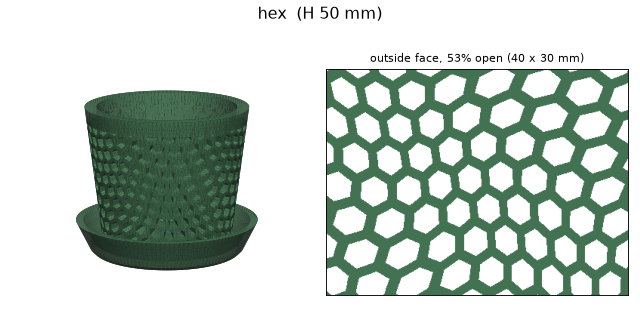
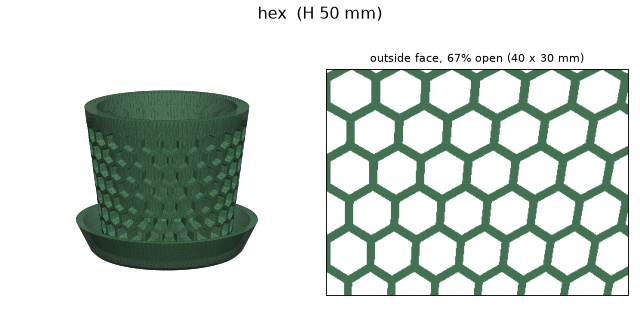
Make hex a regular honeycomb with larger cells
warp, warp_z and strut_extra default to 0 (the warp code stays, as
settings), and cells 84 -> 66: ~6.1 mm cells, ~5 mm outer holes, the
longest the 30-degree roofs should bridge. On the 100 mm pot: outside
67% open, ~4.7 mm holes; soil side 42%, ~3.8 mm.

The slow build test allows hex 15% overhang: its pointy roofs are
30-degree slopes (~13% on the 40 mm test pot).

Claude-Session: https://claude.ai/code/session_014ZpbXoCPdeiaMbjvSWb3pv

Changed region(s): [[0.5, 0.2083, 1.0, 0.8929], [0.125, 0.3869, 0.4062, 0.7143], [0.6875, 0.1488, 0.7188, 0.1786]]

diff --git a/src/pots/patterns.py b/src/pots/patterns.py
@@ -343,11 +343,12 @@ def hex_cutters(pot, c, depths, per_edge=2):
 
 
 def pat_hex(pot, P, th, Z, r, s):
-    """Warped honeycomb, vertex pointing up, with the voronoi funnel: struts
-    thin from strut_in to strut_out through the wall. The roof edges have a
-    vertical normal component of sqrt(3)/2, so the pattern moves down by
+    """Honeycomb (regular by default; `warp` / `warp_z` make it wavy), vertex
+    pointing up, with the voronoi funnel: struts thin from strut_in to
+    strut_out through the wall. The roof edges have a vertical normal
+    component of sqrt(3)/2, so the pattern moves down by
     recession / (sqrt(3)/2) to keep every roof where it is. strut_extra
-    makes up for the warp, which shears the cells and thins some struts."""
+    makes up for a warp, which shears the cells and thins some struts."""
     c = P.hex
     strut = taper(c, s) + c.strut_extra
     shift = taper_shift(c, s, np.sqrt(3) / 2, c.strut_extra)
@@ -646,7 +647,7 @@ def pat_weave(pot, P, th, Z, r, s):
 PATTERNS = {
     "voronoi": Pattern("2d", pat_voronoi, "organic cells flaring outward like funnels (default)",
                        cutters=voronoi_cutters),
-    "hex": Pattern("2d", pat_hex, "warped honeycomb, pointy-top cells, flaring outward", cutters=hex_cutters),
+    "hex": Pattern("2d", pat_hex, "regular honeycomb, pointy-top cells, flaring outward", cutters=hex_cutters),
     "drops": Pattern("2d", pat_drops, "staggered teardrops flaring outward", cutters=drops_cutters),
     "lattice": Pattern("2d", pat_lattice, "diamond trellis of crossing helical strips, flaring outward",
                        cutters=lattice_cutters),

diff --git a/tests/test_build.py b/tests/test_build.py
@@ -56,7 +56,8 @@ def test_pattern_has_no_loose_parts(name, caplog):
         mesh, _ = generate(pot, name, voxel=0.6, faces=60_000)
     assert "detached" not in caplog.text
     assert mesh.is_watertight and mesh.body_count == 1
-    assert overhang_share(mesh) < 0.12
+    # hex: its pointy roofs are 30-degree slopes (short near-bridges), ~13% here
+    assert overhang_share(mesh) < (0.15 if name == "hex" else 0.12)
 
 
 @pytest.mark.slow

diff --git a/README.md b/README.md
@@ -129,7 +129,7 @@ With the defaults, on the 100 mm pot (6 mm wall):
 | pattern | outside face | soil side |
 |---|---|---|
 | `voronoi` | 78% open, holes ~4.2 mm | 29% open, holes ~2.5 mm |
-| `hex` | 52%, ~3.2 mm | 25%, ~2.2 mm |
+| `hex` | 67%, ~4.7 mm | 42%, ~3.8 mm |
 | `drops` | 56%, ~4.4 mm | 34%, ~3.4 mm |
 | `lattice` | 85%, ~4.1 mm | 13%, ~1.6 mm |
 | `isogrid` | 85%, ~3.8 mm | 24%, ~2.1 mm |
@@ -188,7 +188,7 @@ from outside, next to a 40 x 30 mm true-scale swatch of the outer wall face
 
 | | |
 |---|---|
-| **`voronoi`** (default), 2D, tapered: organic cells that flare outward like funnels. <br> ![voronoi](docs/patterns/voronoi.png) | **`hex`**, 2D, tapered: warped honeycomb, pointy-top cells, flaring outward like `voronoi`. <br> ![hex](docs/patterns/hex.png) |
+| **`voronoi`** (default), 2D, tapered: organic cells that flare outward like funnels. <br> ![voronoi](docs/patterns/voronoi.png) | **`hex`**, 2D, tapered: regular honeycomb, pointy-top cells about 6 mm across, flaring outward like `voronoi` (`warp` / `warp_z` make it wavy). <br> ![hex](docs/patterns/hex.png) |
 | **`drops`**, 2D, tapered: staggered teardrops with 55° pointed tops, flaring outward. <br> ![drops](docs/patterns/drops.png) | **`lattice`**, 2D, tapered: diamond trellis of helical strips crossing at ±55°, no bridges at all, flaring outward like `voronoi`. <br> ![lattice](docs/patterns/lattice.png) |
 | **`isogrid`**, 2D, tapered: triangle grid flaring outward like `voronoi`; the downward triangles have short flat bridges. <br> ![isogrid](docs/patterns/isogrid.png) | **`louvers`**, 2D: gills that run down and outward through the wall like shutter blades. No line of sight: soil stays in, rain runs off. <br> ![louvers](docs/patterns/louvers.png) |
 | **`slots`**, 2D: narrow wavy vertical slots, air-pruning style. <br> ![slots](docs/patterns/slots.png) | **`spiral`**, 2D: slots on a many-start 60° helix. <br> ![spiral](docs/patterns/spiral.png) |
@@ -302,8 +302,8 @@ matches the field's within 1% on every shape and size (tested; most are
 within 0.5%). Small differences: the field's 1 mm rounded blends where the
 wall meets the base and cup become 0.8 mm 45° chamfers; a lattice whose
 holes close up inside the wall (a strut wider than the cell) falls back to
-marching cubes; and the overhang share reads a little higher (hex 14.8%
-vs 12.9%) because the sloped hole roofs stay sharp instead of being
+marching cubes; and the overhang share reads a little higher (hex 14.9%
+vs 13.4%) because the sloped hole roofs stay sharp instead of being
 rounded off.
 
 Either way, each build logs whether the mesh is watertight and a single
